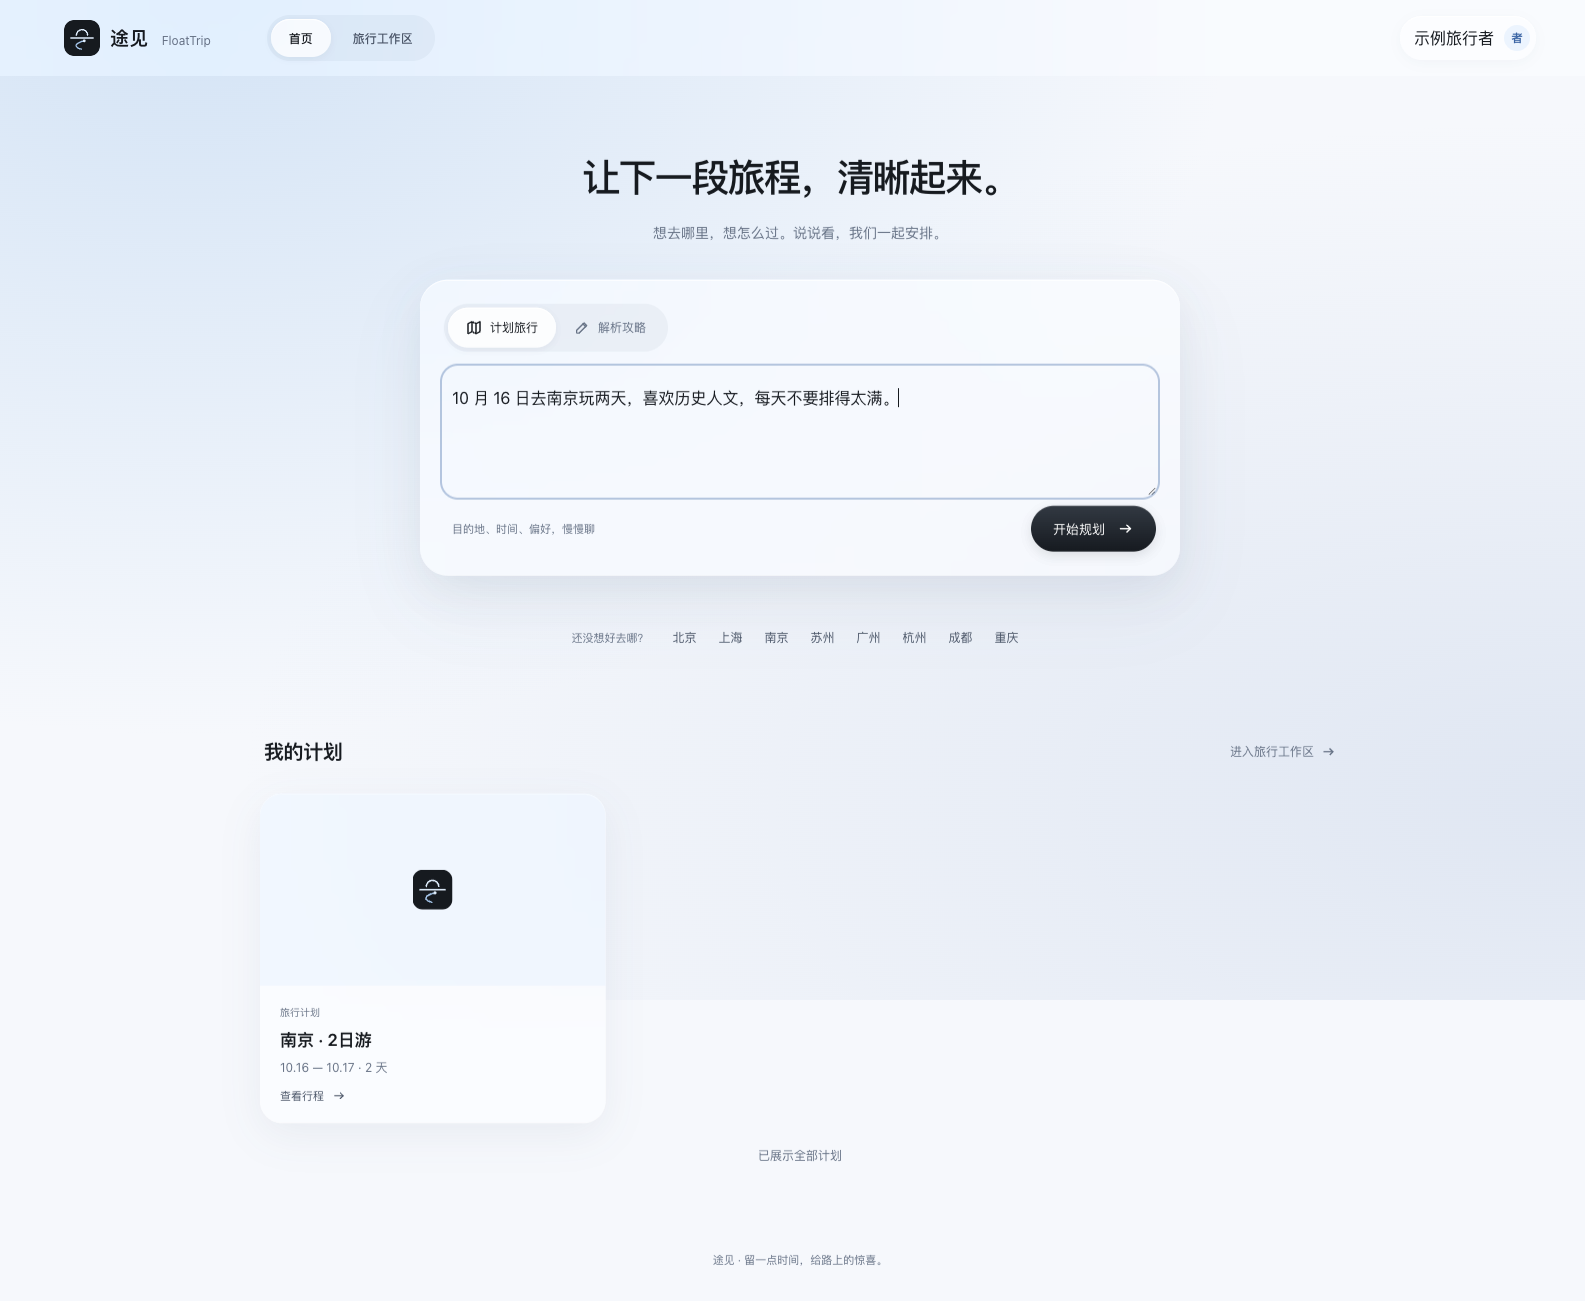
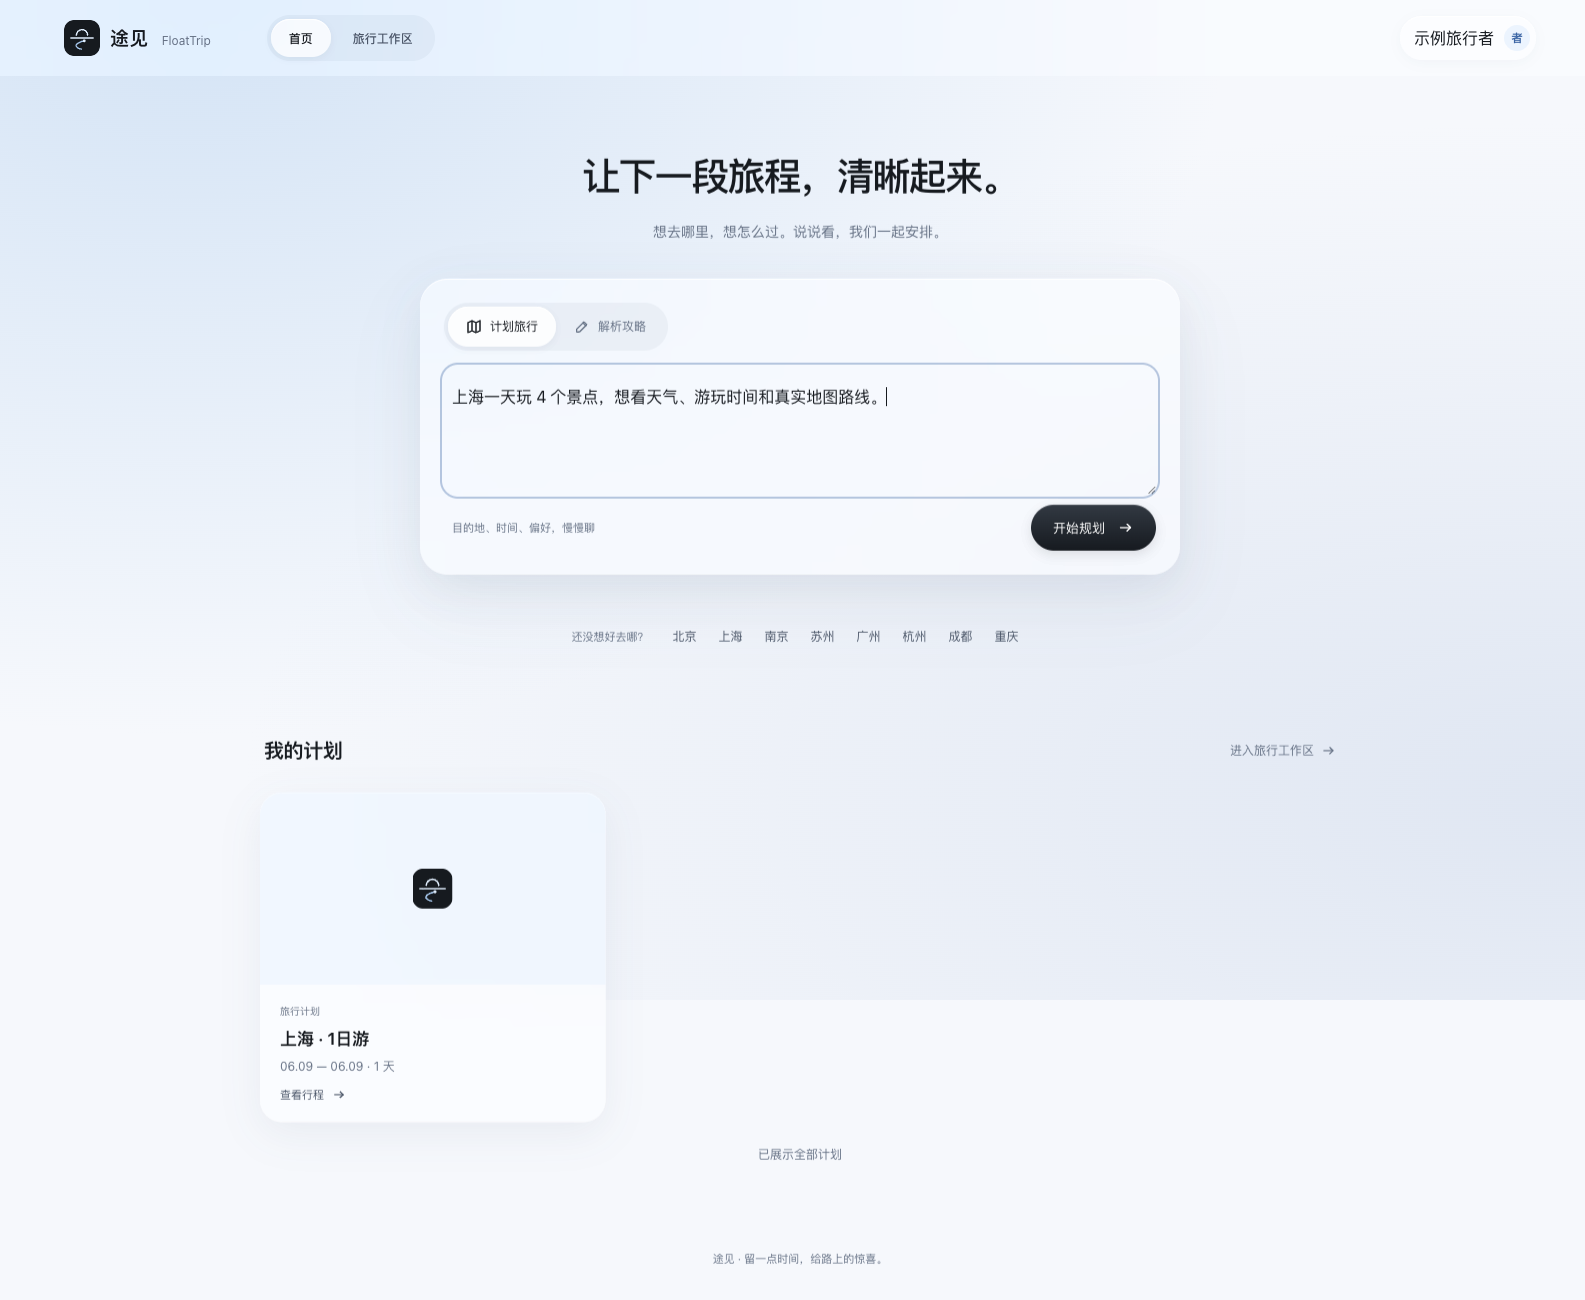
docs: show Shanghai four-stop itinerary with real Amap route and weather

diff --git a/static/images/readme/web-capture-notes.md b/static/images/readme/web-capture-notes.md
@@ -1,14 +1,22 @@
 # Web 展示图来源
 
-- 截取日期：2026-09-26。
-- 页面来源：当前工作区 `frontend/`，浏览器实际渲染，无产品界面合成。
-- 数据来源：按现有前端测试协议提供的隔离样例（南京两日行程、示例旅行者与三条手动偏好），不是在线模型运行结果。
-- 后端隔离：临时本机静态服务器返回样例 API 响应，未连接用户数据库，未调用模型或高德服务。
-- 地图状态：未配置 JS Key，样例未提供坐标，保留产品原有“暂无地点坐标”提示与示意背景。
-- 视口：桌面 1600 × 1000；首页使用同一视口的完整页面截图，避免截断行程卡片。
-- 截图状态：工作区显示已选择的行程引用和未发送的修改草稿；编辑图展示当前编辑态；画像图展示手动偏好。
-- 仅隐藏浏览器翻译扩展注入的悬浮按钮，未修改产品 DOM、文案或样式。
+## 上海路线展示（2026-09-26 更新）
+
+- 页面：当前工作区 `frontend/` 的实际浏览器界面。
+- 行程：从已保存的上海行程中提取 2026-06-09 当天的四个景点，依次为静安寺、上海城隍庙、上海豫园、外滩。截图展示副本仅保留这一天的景点安排，去除餐饮、个人需求、账号与私人资料，不修改原数据库。
+- 天气：保留该行程已存的同日历史预报，阴，最高 26°C、最低 20°C；不是当前实况，也不是本次重新查询的预报。
+- 对话和画像：脱敏的展示样例；没有重新调用规划模型。
+- 地图：高德 JS SDK 实时加载真实底图，四个标记使用已保存的高德 POI 坐标。
+- 道路路线：高德 `/v3/direction/driving` Web 服务返回 `status=1 / info=OK`，路线长 7,973 米，返回步骤合并为 236 个路径顶点。截图页使用 AMap.Polyline 绘制这些原始道路坐标，未用直线连接或手绘代替道路。
+
+### 截图环境与产品默认路径的区别
+
+本机系统代理导致高德连接关闭，因此截图工具只对 AMap / AutoNavi 域名请求使用直连。系统代理设置未修改。
+
+当前 JS 路线配置返回 `INVALID_USER_SCODE`；为完成真实道路展示，截图专用本机代理使用已有的 `AMAP_API_KEY` 请求 Web 服务驾车路线，密钥始终留在服务端。路线响应经核验后通过 SDK Polyline 叠加到截图页面。该代理和叠加代码仅用于截图，没有写入产品前端或后端。因此这张图不代表当前本机 JS 路线凭据已修复；常规运行仍需配置匹配的 `AMAP_JS_KEY` / `AMAP_JS_SECURITY_CODE`。
+
+工作区、编辑和画像图使用同一上海场景，桌面视口 1600 × 1000，并通过现有分隔条加宽行程与地图区域。首页使用同一视口的完整页面截图。仅隐藏浏览器翻译扩展悬浮按钮，产品控件和文字保持实际渲染。
 
 文件：`web-workspace.png`、`web-home.png`、`web-editor.png`、`web-profile.png`。
 
-后续更新应重新启动当前前端，使用相同 API 结构的隔离数据；通过实际页面操作进入各状态后截图。不要用旧版本海报或生成图片替代真实界面，不要把示例结果作为质量评测证据。
+后续更新应保留地图数据来源、路线查询结果和天气日期。不要将历史预报描述为当前天气，或将截图专用接入方式描述为默认产品链路。

diff --git a/README.md b/README.md
@@ -19,12 +19,12 @@
 </div>
 
 <p align="center">
-  <img src="static/images/readme/web-workspace.png" alt="新版途见工作区：左侧持续对话，中间逐日行程，右侧地图区域" width="1200" />
+  <img src="static/images/readme/web-workspace.png" alt="上海一日四景点：静安寺、上海城隍庙、豫园、外滩，含天气与高德真实驾车路线" width="1200" />
 </p>
 
-<p align="center"><sub>新版 Web 工作区 · 对话、行程与地点视图同屏协作</sub></p>
+<p align="center"><sub>上海一日 4 个景点 · 天气、逐日安排与高德真实道路路线</sub></p>
 
-> 本页截图来自当前 Web 的实际渲染界面，使用隔离示例数据，不代表在线规划质量或实地核验结果。截图未配置地图 Key，示例未提供地点坐标，地图区域保留真实降级提示。
+> 上海路线图选取已保存行程中的静安寺 → 上海城隍庙 → 豫园 → 外滩，展示高德真实底图与驾车道路数据。天气为该行程保存的 **2026-06-09 历史预报：阴，20–26°C**，并非当前天气。截图使用脱敏展示数据；地图通过截图专用代理接入高德 Web 服务，详见 [截图来源](static/images/readme/web-capture-notes.md)。
 
 <a id="features"></a>
 
